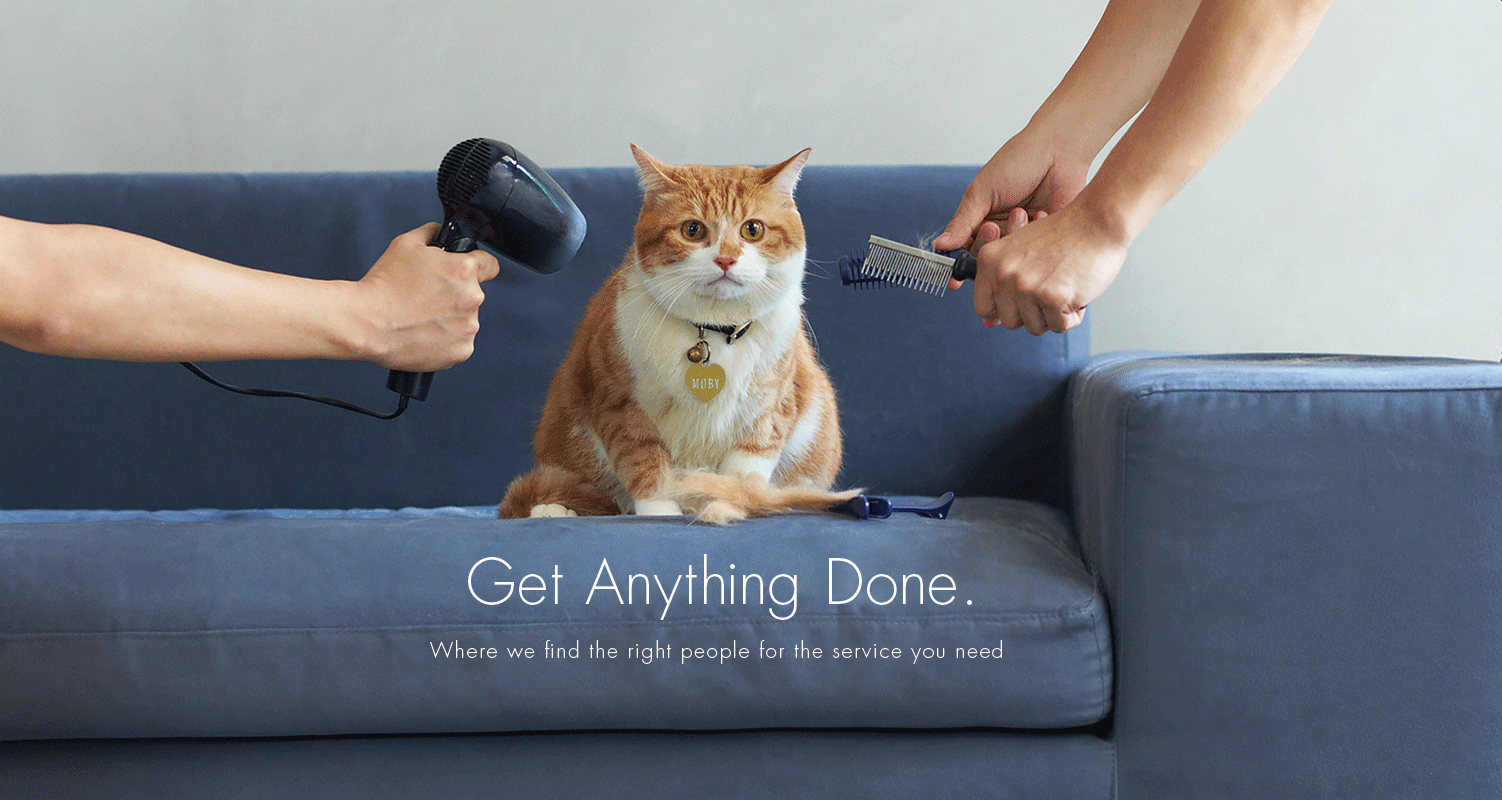
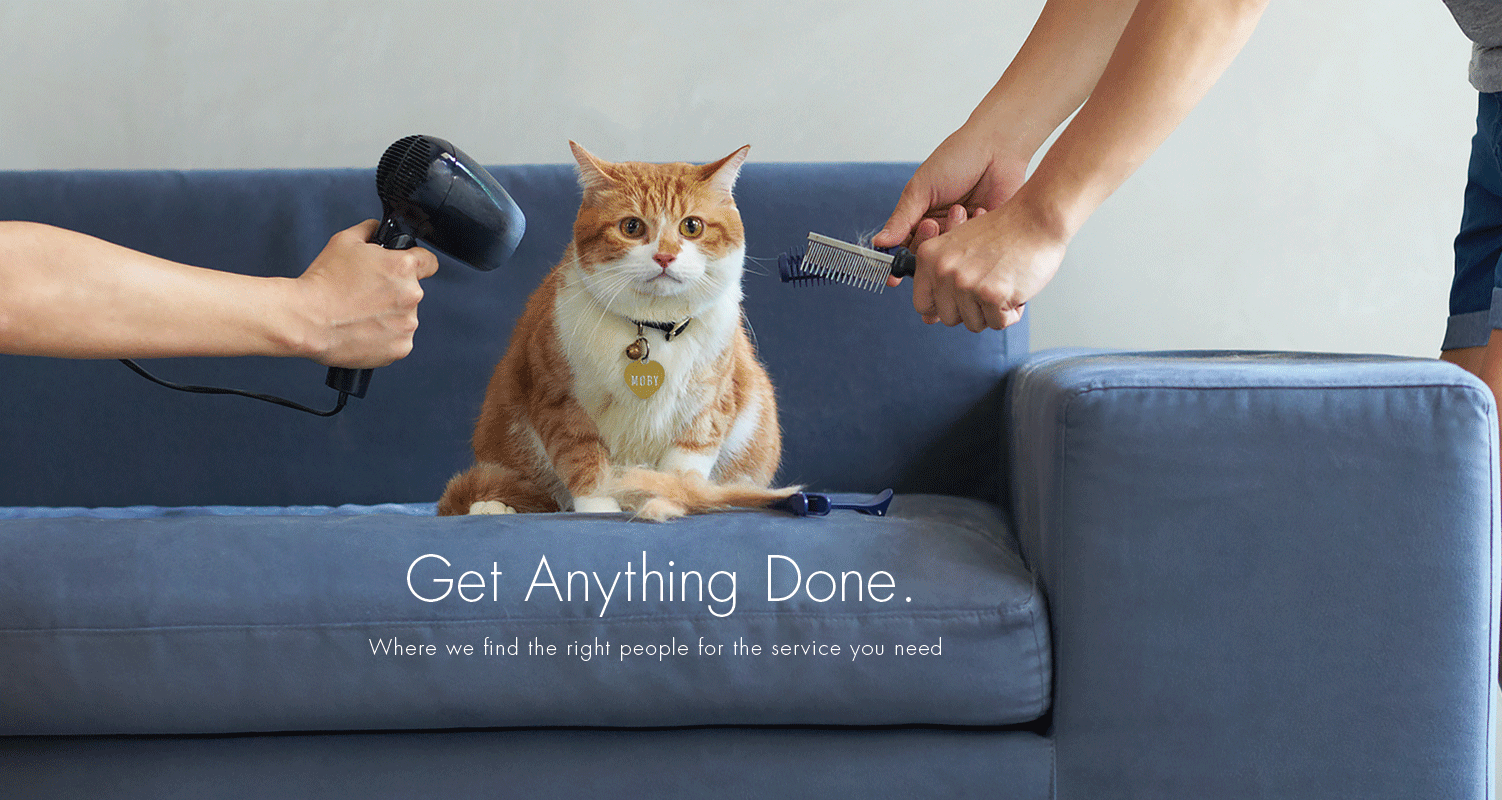
css

diff --git a/css/style.css b/css/style.css
@@ -1567,5 +1567,14 @@ top: 100%;
 right: 39%}
 #main-bg{
 background: url("../images/grooming.png");
-height: 600px;
+height: 790px;
 }
+
+.bg-header{background:none;}
+
+header.bg-header.smaller {
+    height: 75px;
+}
+header.bg-headersmaller .logo{width: 155px;}
+header.bg-headersmaller .img{width: 86%;}
+header.bg-headersmaller .navbar-nav.navbar-right:last-child{ margin-top: 10px;}

diff --git a/img-top-menu.php b/img-top-menu.php
@@ -1,4 +1,4 @@
-<header class="navbar-fixed-top" style="background:none;">
+<header class="navbar-fixed-top bg-header">
       <div class="container" style="max-width:1200px;">
         <div class="row">
           <div class="col-md-2">
